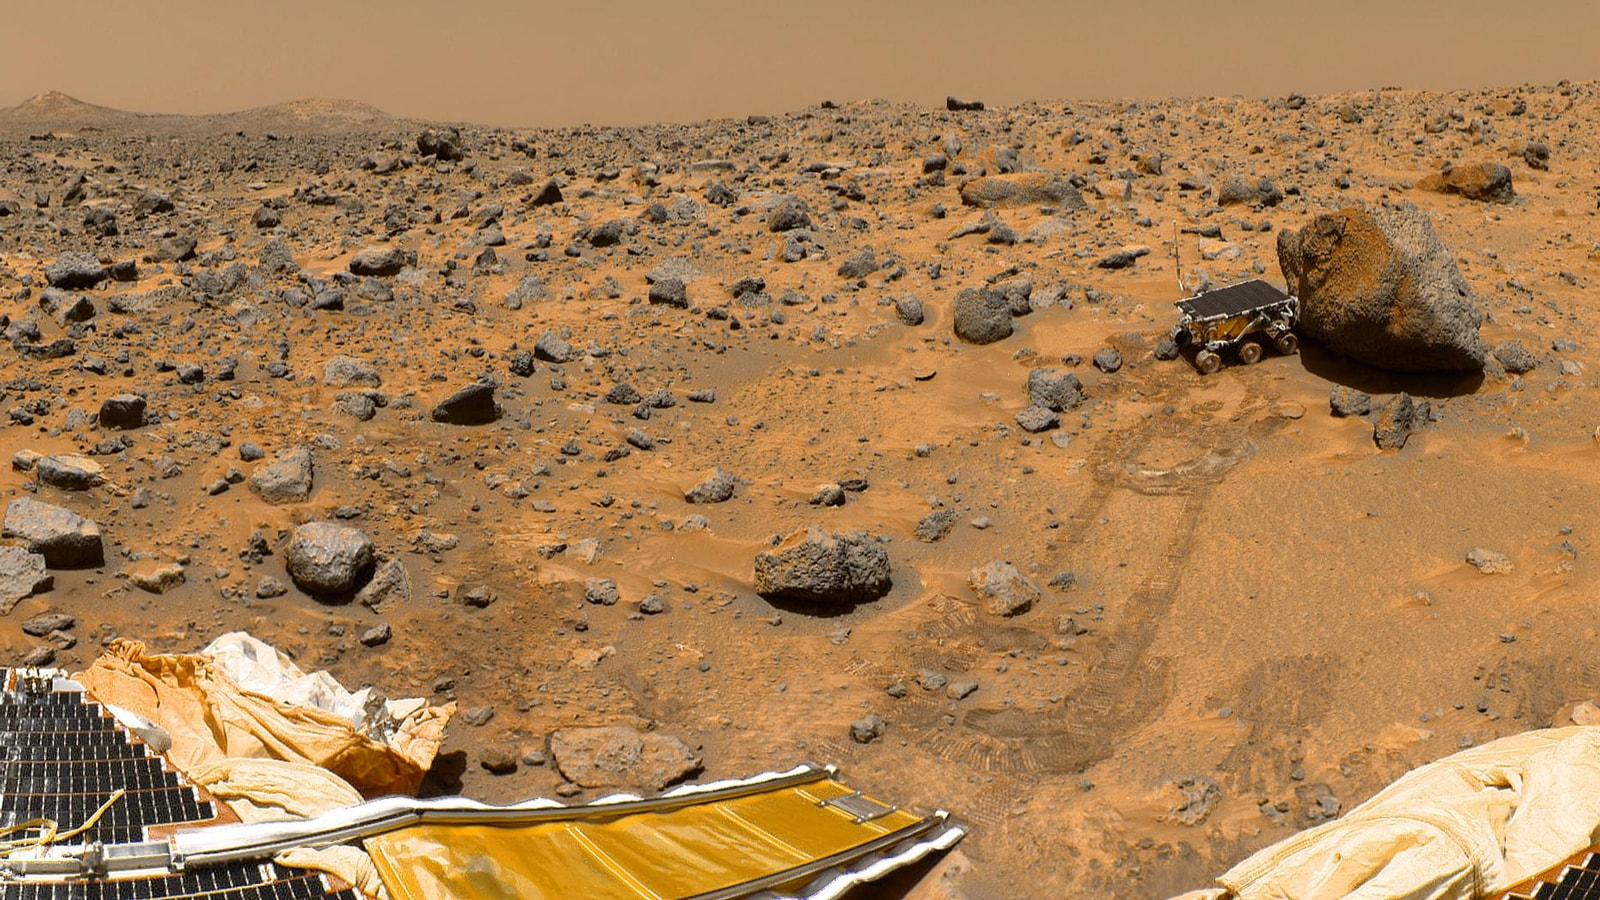
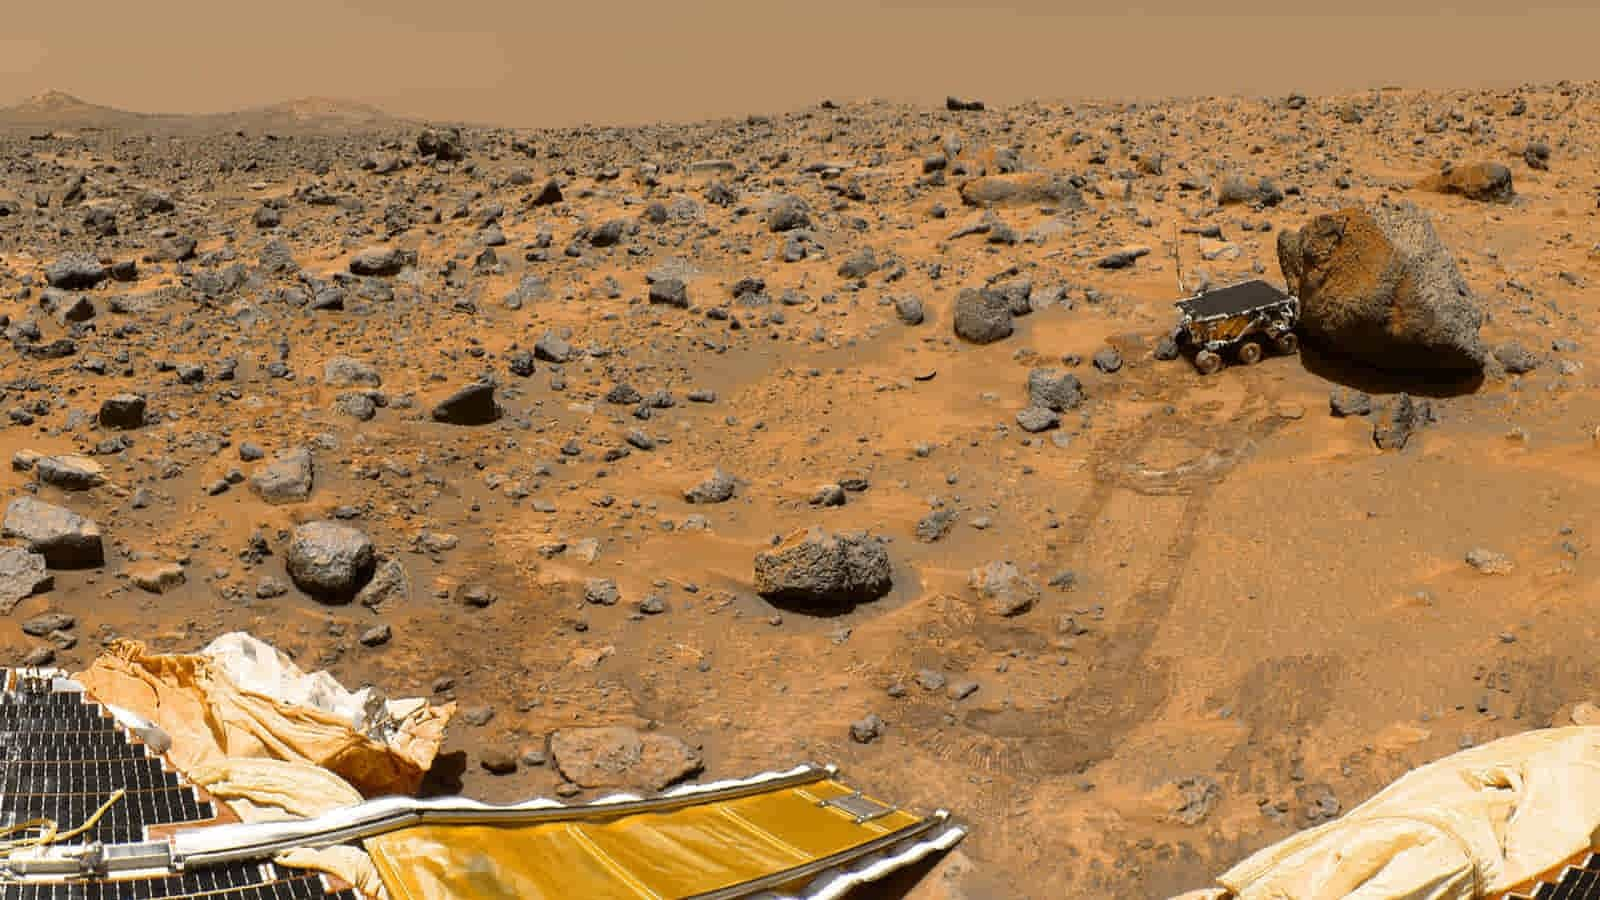
Images further compressed

diff --git a/assets/css/style.css b/assets/css/style.css
@@ -110,7 +110,7 @@ a:hover {
   background-color: #29292859;
   -webkit-box-shadow: inset 0 0 10px 5px black;
           box-shadow: inset 0 0 10px 5px black;
-  background-image: url(../images/bg-content-section-2.jpg);
+  background-image: url(../images/bg-content-section-2.webp);
   background-position: center;
   background-repeat: no-repeat;
   background-size: cover;
